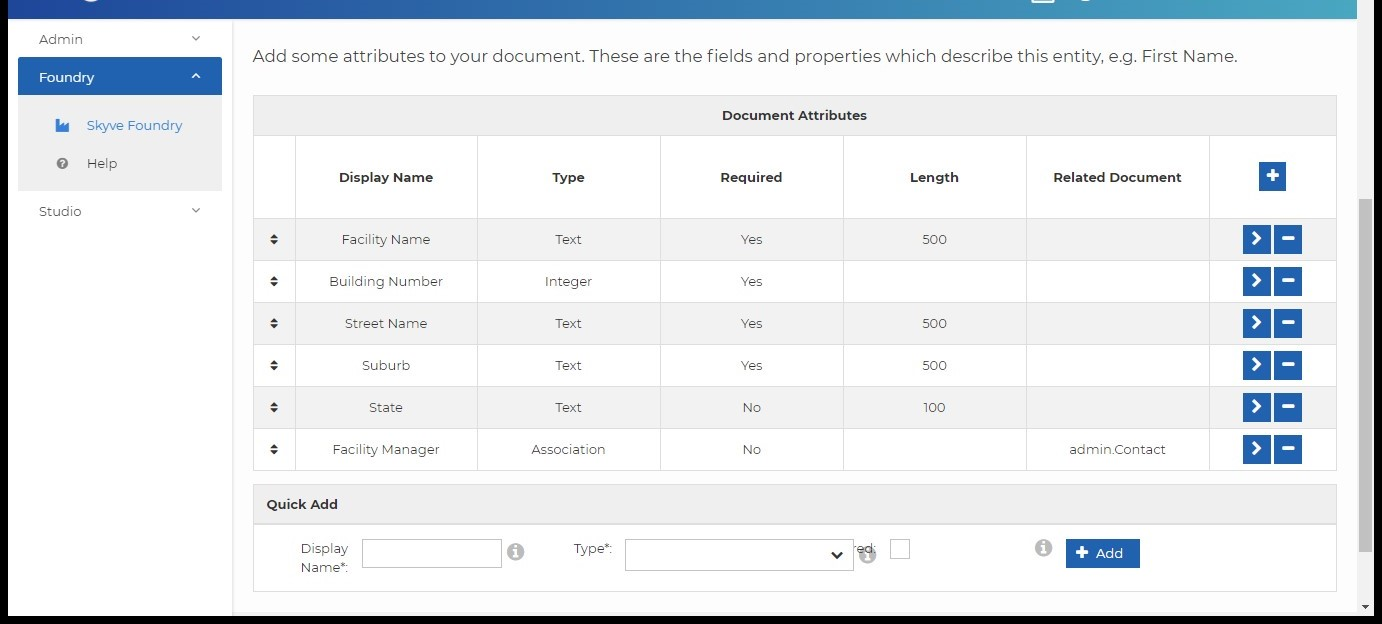
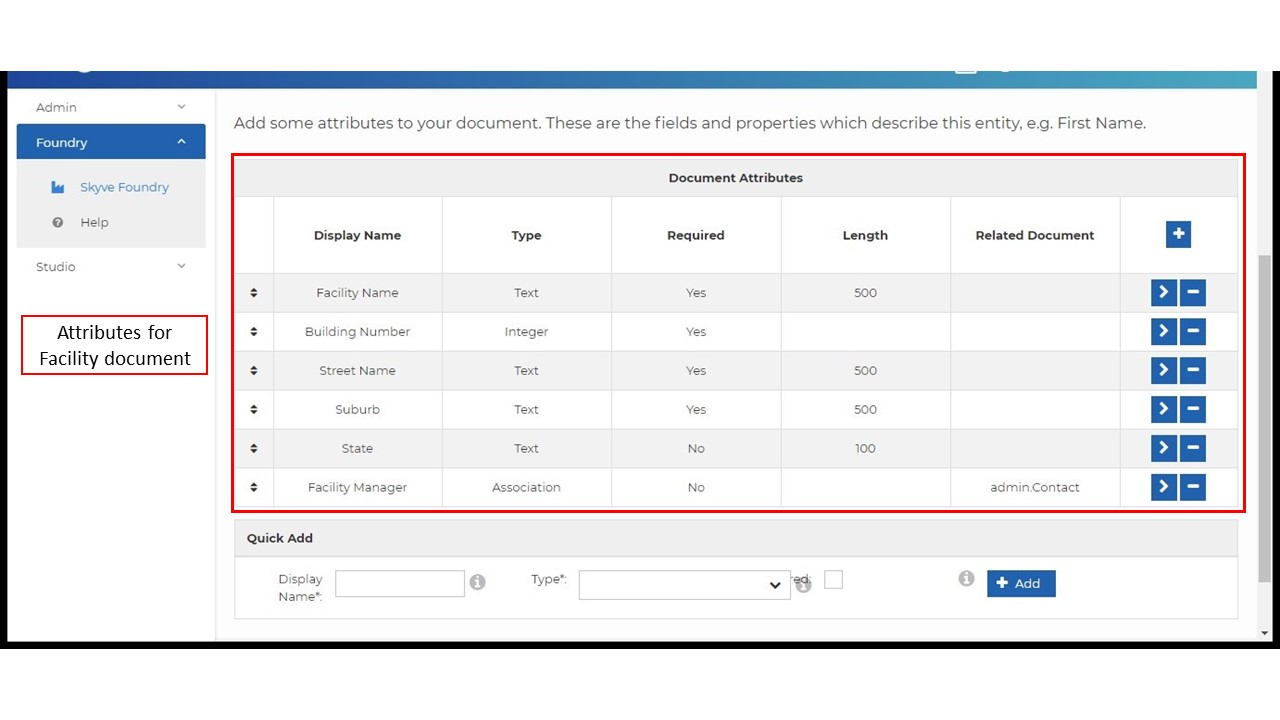
updated file

diff --git a/readme.md b/readme.md
@@ -134,7 +134,7 @@ In this tutorial we have three documents:
 
 #### 1. Define Patient Document and it's attributes:
 
-The patient document will contain the personal information about the patient and the information about the facility they admitted.
+The patient document will contain the personal information about the patients and the information about the facility they admitted.
 
 Patient document contain attributes below:
 
@@ -169,8 +169,25 @@ Now, we will create a Patient document and add attributes in Patient document in
 
   ![Add attribute](doc_src_img/chapter1/6.jpg "Add attribute")
 
-- Add all the attributes for Patient, Facility, and Assessments as below
+- Add all the attributes for Patient document as below
   ![Patient attributes](doc_src_img/chapter1/7.jpg "Patient attributes")
+
+#### 2. Define Facility Document and it's attributes:
+
+The Facility document will contain information about the facility(e.g.facility name, facility manager), facility full address and location.
+
+The attributes for Facility document as below:
+
+| Attribute name   | Data Type |
+| ---------------- | --------- |
+| Facility Name    | Text      |
+| Building Number  | Integer   |
+| Street Name      | Text      |
+| Suburb           | Text      |
+| State            | Text      |
+| Facility manager | Associate |
+
+This document will follow the same steps we followed for Patient document. It will look like as below:
 
 ![Facility attributes](doc_src_img/chapter1/8.jpg "Facility attributes")
 ![Assessment attributes](doc_src_img/chapter1/9.jpg "Assessment attributes")
